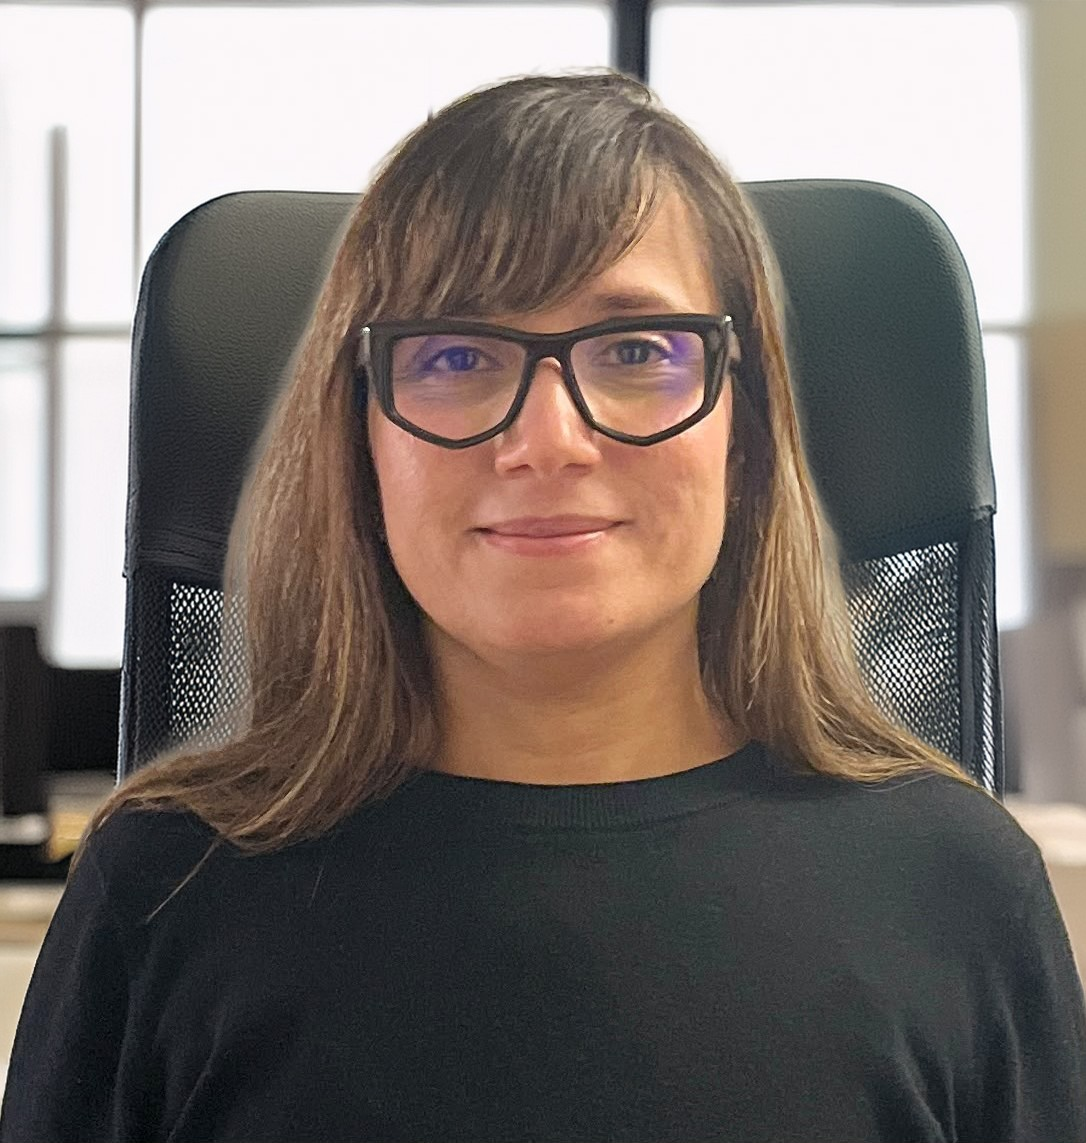
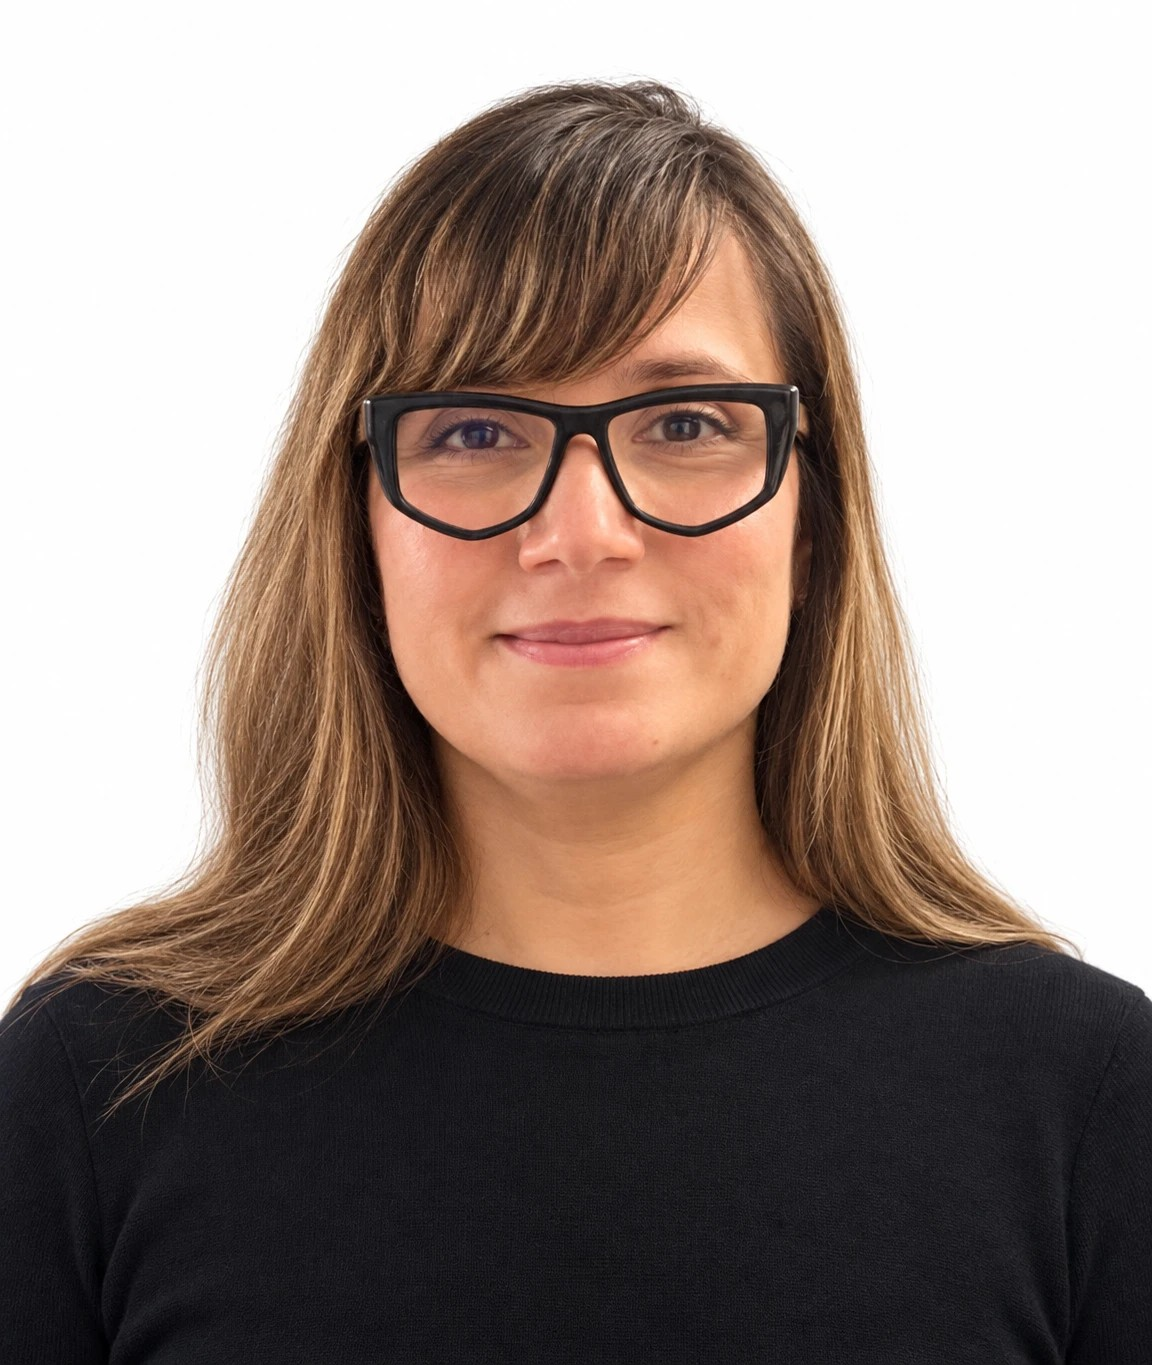
Hejer Boutej: new headshot; title Co-founder & President

diff --git a/src/data/team.ts b/src/data/team.ts
@@ -58,14 +58,14 @@ export const team: Person[] = [
     initials: 'HB',
     group: 'founders',
     title: {
-      en: 'Co-founder · MBA Candidate',
-      fr: 'Cofondatrice · Candidate au MBA',
+      en: 'Co-founder & President',
+      fr: 'Cofondatrice et présidente',
     },
     photo: hejerBoutej,
-    photoPosition: '50% 30%',
+    photoPosition: '50% 22%',
     bio: {
-      en: 'Dr. Hejer Boutej is a co-founder of RNOVA Tx and co-inventor of the foundational SRSF3 patent. As first author of the 2017 Cell Reports study, she led the ribosome-profiling work showing that SRSF3 suppresses translation of highly upregulated innate immune transcripts in microglia. Her expertise spans transcriptomics, proteomics and models of neuroinflammation. She is currently an MBA candidate.',
-      fr: 'La Dre Hejer Boutej est cofondatrice de RNOVA Tx et co-inventrice du brevet fondateur sur SRSF3. Première autrice de l’étude publiée en 2017 dans Cell Reports, elle a dirigé les travaux de profilage ribosomique montrant que SRSF3 réprime la traduction de transcrits immunitaires innés fortement induits dans la microglie. Son expertise couvre la transcriptomique, la protéomique et les modèles de neuroinflammation. Elle est actuellement candidate au MBA.',
+      en: 'Dr. Hejer Boutej is co-founder and President of RNOVA Tx and co-inventor of the foundational SRSF3 patent. As first author of the 2017 Cell Reports study, she led the ribosome-profiling work showing that SRSF3 suppresses translation of highly upregulated innate immune transcripts in microglia. Her expertise spans transcriptomics, proteomics and models of neuroinflammation. She is currently an MBA candidate.',
+      fr: 'La Dre Hejer Boutej est cofondatrice et présidente de RNOVA Tx, ainsi que co-inventrice du brevet fondateur sur SRSF3. Première autrice de l’étude publiée en 2017 dans Cell Reports, elle a dirigé les travaux de profilage ribosomique montrant que SRSF3 réprime la traduction de transcrits immunitaires innés fortement induits dans la microglie. Son expertise couvre la transcriptomique, la protéomique et les modèles de neuroinflammation. Elle est actuellement candidate au MBA.',
     },
   },
   {
